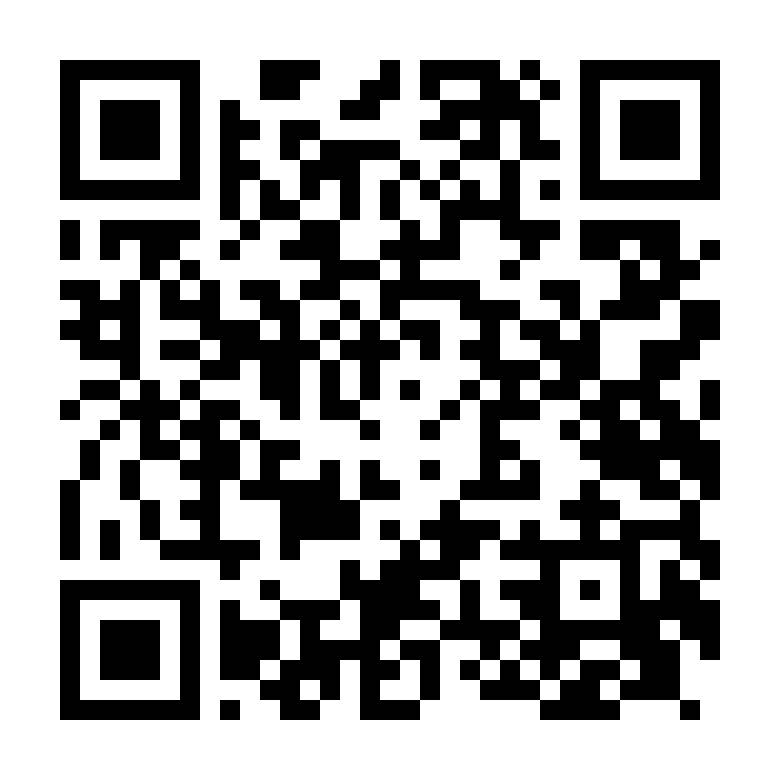
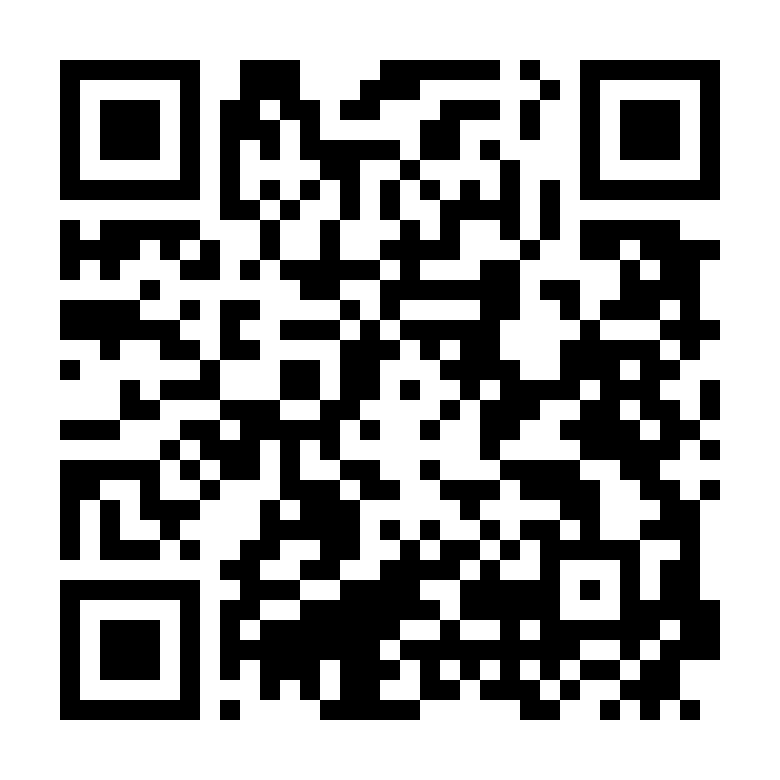
Fix QR link to active repository GitHub Pages URL Restaurants-QR-Design

diff --git a/config.js b/config.js
@@ -34,8 +34,8 @@ const RESTAURANT_CONFIG = {
     footerThanks: "Thank You For Dining With Us 🌿",
     footerCity: "Crafted with care in Indore",
 
-    // 7. Hosted Landing Page URL (Bypasses old cache)
-    landingPageUrl: "https://namangarg-06.github.io/oliveleaf/?v=5"
+    // 7. Hosted Landing Page URL (Active GitHub Pages site)
+    landingPageUrl: "https://namangarg-06.github.io/Restaurants-QR-Design/"
 };
 
 if (typeof module !== 'undefined' && module.exports) {

diff --git a/generate_qr.py b/generate_qr.py
@@ -14,7 +14,7 @@ from PIL import Image, ImageDraw, ImageFont
 
 def load_config():
     config = {
-        "landingPageUrl": "https://namangarg-06.github.io/oliveleaf/",
+        "landingPageUrl": "https://namangarg-06.github.io/Restaurants-QR-Design/",
         "restaurantName": "Olive Leaf",
         "tagline": "PURE VEGETARIAN • FINE DINING",
         "phoneNumber": "9993896969",
@@ -56,7 +56,12 @@ def create_qr_codes(custom_url=None):
     qr_black = qr.make_image(fill_color="black", back_color="white").convert("RGBA")
     qr_black.save("qr_standard.png", "PNG")
     qr_black.save("qr_code.png", "PNG")
-    print("  [+] Saved qr_code.png (100% Solid Pure Black)")
+    qr_black.save("qr_with_olive_badge.png", "PNG")
+    
+    # Luxury dark green variant
+    qr_green = qr.make_image(fill_color="#10251a", back_color="white").convert("RGBA")
+    qr_green.save("qr_olive_leaf_luxury.png", "PNG")
+    print("  [+] Saved qr_code.png, qr_standard.png & qr_olive_leaf_luxury.png")
 
     # Generate Standee with Solid Black QR
     generate_standee_card(qr_black, cfg)

diff --git a/README.md b/README.md
@@ -36,18 +36,16 @@ Kisi bhi phone ke camera se QR scan hone par page khulne ke liye, page ka ek pub
 
 ### Tareeqa 1: GitHub Pages (100% Free & Permanent) - Recommended
 Aapka GitHub username: `namangarg-06`
-1. GitHub par jaakar naya repository banayein: naam rakhein `oliveleaf`.
-2. Ye saari files us repo me push kar dein (ya GitHub Desktop se publish kar dein).
-3. Repo ki **Settings -> Pages** me jakar `Branch: main` select karke Save karein.
-4. Aapka page turant live ho jayega is link par:
-   👉 **`https://namangarg-06.github.io/oliveleaf/`**
-5. Default QR code isi link ke liye generate kiya gaya hai!
+1. GitHub Repository: `Restaurants-QR-Design`.
+2. Ye saari files us repo me push ki hui hain.
+3. Aapka page live hai is link par:
+   👉 **`https://namangarg-06.github.io/Restaurants-QR-Design/`**
+4. Default QR code isi link ke liye generate kiya gaya hai!
 
 ### Tareeqa 2: Netlify Drop (10 Seconds, Zero Setup)
 1. Browser me kholein: [app.netlify.com/drop](https://app.netlify.com/drop)
 2. Is poore `QR Code` folder ko drag karke wahan chhod dein.
 3. Netlify aapko turant ek live free URL de dega (jaise `oliveleaf.netlify.app`).
-4. Phir agar aapko QR code update karna ho toh terminal me run karein:
    ```bash
    python generate_qr.py "https://aapka-link.netlify.app"
    ```
